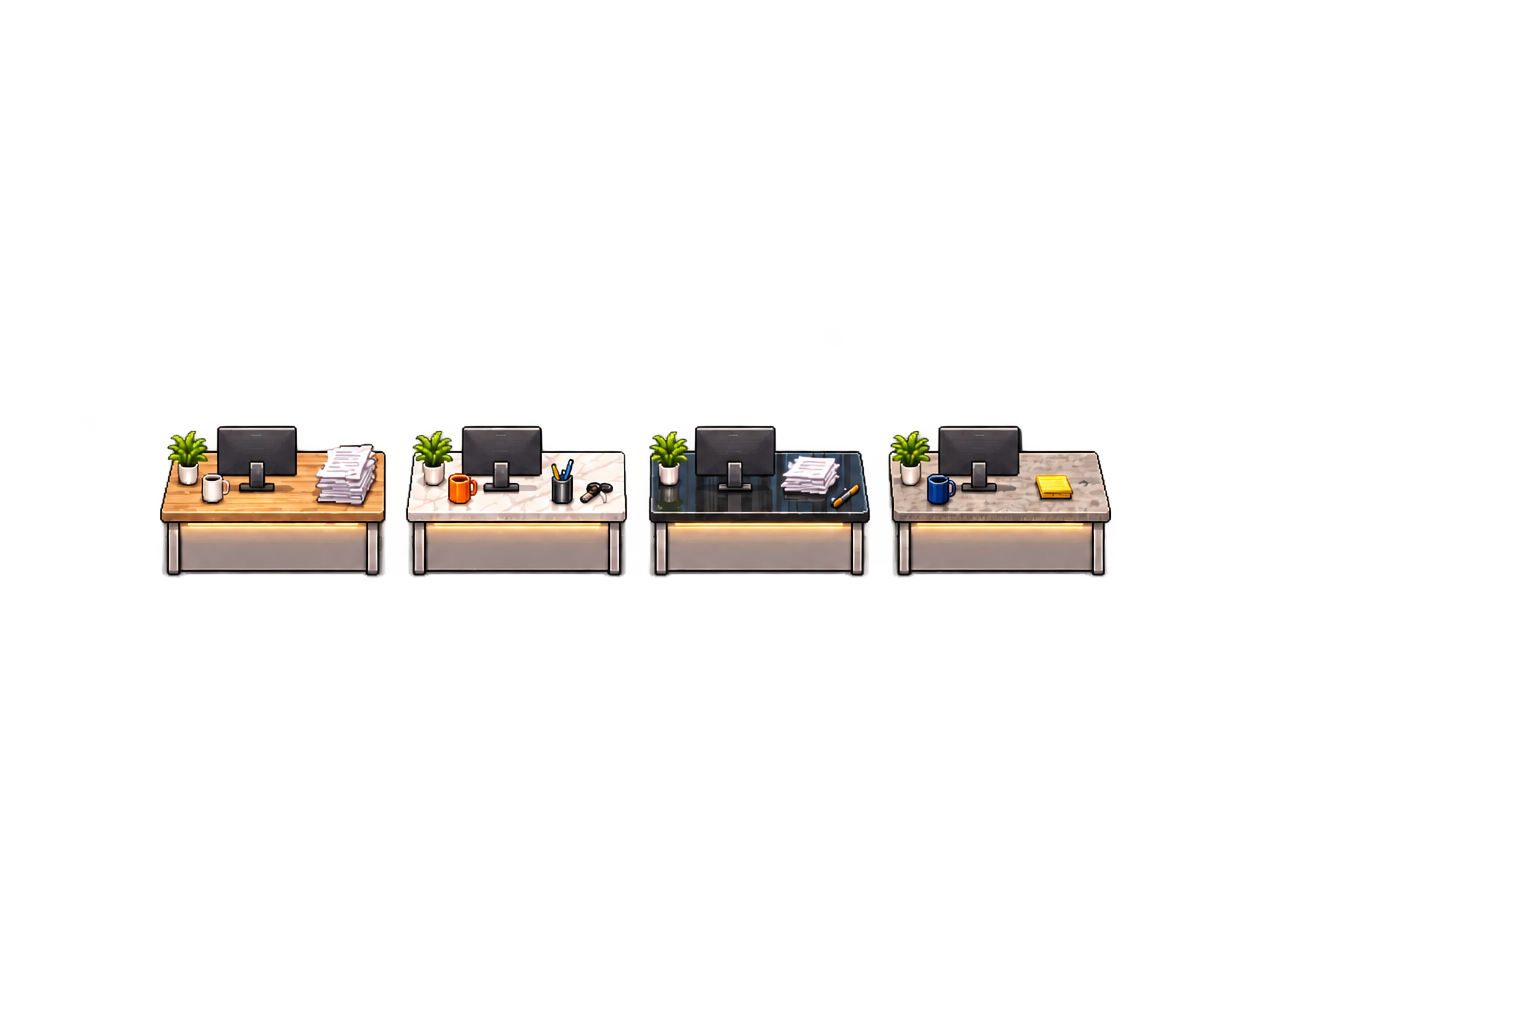
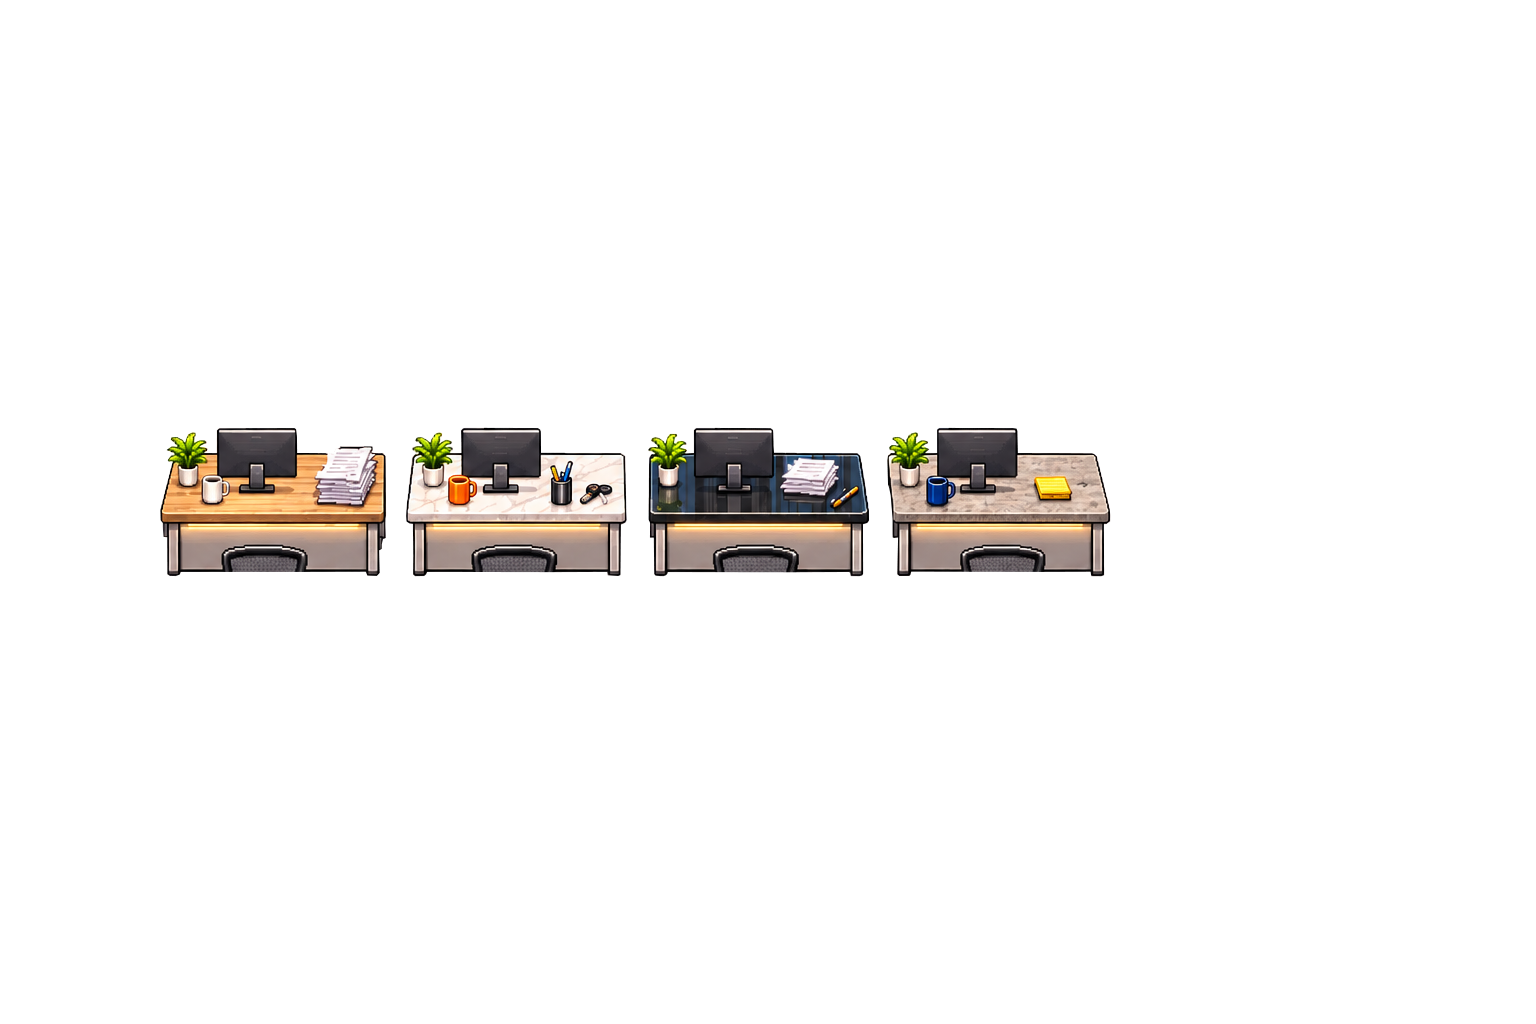
Office: re-cut VA desk cutouts; 8 AM-6 PM day, Kevin until 10 PM
- fg-desks-row1/row2 are re-cut from the background, so the strip of chair
  above each VA's monitor is gone; office web assets rebuilt.
- The office day now runs to 5:45 PM and people leave between 6:00 and
  6:10 PM ET (was 5:00). Kevin stays at his desk into the evening and leaves
  at 10:00 PM (LATE_LEAVE in roster.ts).

Changed region(s): [[0.0938, 0.4062, 0.7188, 0.5625]]

diff --git a/tests/office.schedule.test.ts b/tests/office.schedule.test.ts
@@ -1,6 +1,6 @@
 import { describe, it, expect } from "vitest";
 import { DateTime } from "luxon";
-import { planDay, periodFor, type DayPlan } from "@/lib/office/schedule";
+import { planDay, periodFor, DAY_END, type DayPlan } from "@/lib/office/schedule";
 import { OFFICE_ROSTER, EXEC_LUNCH_SEAT } from "@/lib/office/roster";
 
 const TEAM = OFFICE_ROSTER.map(({ slug, desk }) => ({ slug, desk }));
@@ -46,12 +46,24 @@ describe("planDay", () => {
     }
   });
 
-  it("everyone is gone by 5:15", () => {
-    for (const segs of Object.values(planDay(MON, TEAM))) {
+  it("works until 6 PM: leaves between 6:00 and 6:10, gone by 6:15", () => {
+    for (const [slug, segs] of Object.entries(planDay(MON, TEAM))) {
+      if (slug === "kevin-spann") continue;
       const last = segs[segs.length - 1];
       expect(last.activity).toBe("leave");
       expect(last.spot).toBe("EXIT");
-      expect(last.end).toBeLessThanOrEqual(1035);
+      expect(last.start).toBeGreaterThanOrEqual(1080);
+      expect(last.start).toBeLessThanOrEqual(1090);
+      expect(last.end).toBeLessThanOrEqual(1095);
+      expect(segs.find((s) => s.start <= 1070 && 1070 < s.end)).toBeDefined(); // still in at 5:50 PM
+    }
+  });
+
+  it("Kevin stays at his desk in the evening until 10 PM", () => {
+    for (const date of weekdays(MON, 5)) {
+      const segs = planDay(date, TEAM)["kevin-spann"];
+      expect(segs.find((s) => s.start <= 1290 && 1290 < s.end)).toMatchObject({ activity: "work", spot: "D1" });
+      expect(segs[segs.length - 1]).toMatchObject({ activity: "leave", start: 1320, spot: "EXIT" });
     }
   });
 
@@ -78,7 +90,7 @@ describe("planDay", () => {
     for (const people of [TEAM, crowd])
       for (const date of weekdays(MON, 20)) {
         const plan = planDay(date, people);
-        for (let minute = 495; minute < 1005; minute += 15)
+        for (let minute = 495; minute < DAY_END; minute += 15)
           for (const [spot, who] of occupied(plan, minute)) expect(who, `${date} ${minute} ${spot}`).toHaveLength(1);
       }
   });
@@ -100,7 +112,7 @@ describe("planDay", () => {
   it("talk pairs only form between two people in the same slot", () => {
     for (const date of weekdays(MON, 20)) {
       const plan = planDay(date, TEAM);
-      for (let minute = 495; minute < 1005; minute += 15) {
+      for (let minute = 495; minute < DAY_END; minute += 15) {
         const occ = occupied(plan, minute);
         for (const [a, b] of [["G1", "G2"], ["G3", "G4"]]) expect(occ.has(a)).toBe(occ.has(b));
       }

diff --git a/src/lib/office/schedule.ts b/src/lib/office/schedule.ts
@@ -3,7 +3,7 @@
 // Times are minutes after ET midnight.
 import { DateTime } from "luxon";
 import { ET_ZONE } from "@/lib/time";
-import { EXEC_LUNCH_SEAT } from "@/lib/office/roster";
+import { EXEC_LUNCH_SEAT, LATE_LEAVE } from "@/lib/office/roster";
 
 export type Activity =
   | "arrive" | "work" | "coffee" | "lunch" | "talk" | "laugh" | "armchair" | "workout" | "cr" | "leave";
@@ -14,7 +14,7 @@ export type Period = "morning" | "afternoon" | "evening";
 
 export const SLOT = 15;
 export const DAY_START = 495; // 8:15 AM
-export const SLOTS = 34; // through 4:45 PM
+export const SLOTS = 38; // through 5:45 PM; everyone leaves at 6:00 PM
 export const DAY_END = DAY_START + SLOT * SLOTS;
 
 const LUNCH_FIRST_SLOT = 13; // 11:30 AM
@@ -57,7 +57,7 @@ type Draw = { arrive: number; leave: number; lunchStart: number; lunchLen: numbe
 function draw(etDate: string, slug: string): Draw {
   const r = mulberry32(fnv1a(`${etDate}|${slug}`));
   const arrive = 470 + Math.floor(r() * 21);
-  const leave = 1020 + Math.floor(r() * 11);
+  const leave = LATE_LEAVE[slug] ?? 1080 + Math.floor(r() * 11);
   const lunchLen = 3 + (r() < 0.5 ? 1 : 0);
   const lunchStart = LUNCH_FIRST_SLOT + Math.floor(r() * (LUNCH_LAST_END - lunchLen - LUNCH_FIRST_SLOT + 1));
   const free = Array.from({ length: SLOTS }, (_, k) => k).filter((k) => k < lunchStart || k >= lunchStart + lunchLen);

diff --git a/src/lib/office/roster.ts b/src/lib/office/roster.ts
@@ -28,6 +28,11 @@ export const EXEC_LUNCH_SEAT: Readonly<Record<string, string>> = {
   "marc-fey": "T3",
 };
 
+/** People who stay past 6 PM, by slug: minutes after ET midnight they walk out. */
+export const LATE_LEAVE: Readonly<Record<string, number>> = {
+  "kevin-spann": 22 * 60, // Kevin works into the evening, until 10 PM
+};
+
 /** Who shows today, by slug: Marc always; everyone else needs an active account and no PTO today. */
 export function visibleMembers(activeSlugs: ReadonlySet<string>, ptoSlugs: ReadonlySet<string>): OfficePersonDTO[] {
   return OFFICE_ROSTER.filter((m) => !m.account || (activeSlugs.has(m.slug) && !ptoSlugs.has(m.slug))).map(

diff --git a/docs/superpowers/specs/2026-11-04-pixel-office-design.md b/docs/superpowers/specs/2026-11-04-pixel-office-design.md
@@ -4,7 +4,7 @@ Status: built 2026-11-09 (not committed). Plan: `docs/superpowers/plans/2026-11-
 
 ## What it is
 
-An illustrated, animated office scene showing the team at work. It is something to watch, not a game. The only interaction is clicking a person, which makes them wave. Mon–Fri, people walk in through the exit door around 8:00 AM ET and leave around 5:00 PM ET. During the day each person works at their desk and now and then gets coffee, eats lunch, sits in the lounge, chats, laughs, works out, or visits the CR (restroom). The background follows the ET clock: sunrise in the morning, blue sky in the afternoon, night skyline in the evening, when the office is always empty.
+An illustrated, animated office scene showing the team at work. It is something to watch, not a game. The only interaction is clicking a person, which makes them wave. Mon–Fri, people walk in through the exit door around 8:00 AM ET and leave around 6:00 PM ET (Kevin stays at his desk until 10:00 PM). During the day each person works at their desk and now and then gets coffee, eats lunch, sits in the lounge, chats, laughs, works out, or visits the CR (restroom). The background follows the ET clock: sunrise in the morning, blue sky in the afternoon, night skyline in the evening, when the office is always empty.
 
 ### Where it shows
 
@@ -34,7 +34,8 @@ The art is 1536×1024 (3:2). It is not the 2040×1360 first asked for, and every
 | File | What it is | Status |
 |---|---|---|
 | `bg-morning.png`, `bg-afternoon.png`, `bg-evening.png` | Full scene, one per time of day | ✅ |
-| `fg-executive.png`, `fg-desks-row1.png`, `fg-desks-row2.png`, `fg-plants.png` | Cutouts, used as masks only (see Rendering) | ⚠ AI-redrawn, so their edges are a few px off the bg (29–60% of pixels differ). The monitor tops reach ~4 px too high and paint a strip of chair over each sitter's chest. Re-cut from a copy of the bg, as was done for `fg-lunch.png` (0 px off). An automatic rim trim was tried and rejected: it cut away too much. |
+| `fg-desks-row1.png`, `fg-desks-row2.png` | Cutouts, used as masks only (see Rendering) | ✅ re-cut 2026-11-09, match the bg exactly |
+| `fg-executive.png`, `fg-plants.png` | Cutouts, used as masks only | ⚠ AI-redrawn, so their edges are a few px off the bg (29–60% of pixels differ); the exec monitor tops paint a thin strip of chair over each sitter. Re-cut from a copy of the bg, as was done for the desk rows. An automatic rim trim was tried and rejected: it cut away too much. |
 | `fg-lunch.png` | The table only, without the chairs. Mask only. | ✅ re-cut 2026-11-09, matches the bg exactly |
 | `fg-lounge.png` | Armchairs and tables (not the rugs). Mask only. | ✅ re-cut 2026-11-09, aligned |
 | `fg-lunch-chairs.png` | All 14 lunch chairs, cut from the bg. Mask only; split into one chair per seat (see Rendering). | ✅ 2026-11-09 |
@@ -130,14 +131,14 @@ There are no new routes or actions.
 
 **Day plan per person:**
 1. **Arrive:** between 7:50 and 8:10 AM ET. They walk from EXIT to their desk.
-2. **The day** is split into 15-minute slots from 8:15 AM to 4:45 PM. Each slot is one activity:
+2. **The day** is split into 15-minute slots from 8:15 AM to 5:45 PM. Each slot is one activity:
    - `work` (desk): most slots.
    - `coffee`: about 2 a day.
    - `lunch`: one 45–60 minute block between 11:30 AM and 1:30 PM.
    - `lounge`: armchair, or a talk/laugh pair.
    - `workout`: about 1 a day, not for everyone.
    - `cr`: walk into the CR door, hidden for a few minutes, walk back.
-3. **Leave:** between 5:00 and 5:10 PM ET. They walk from their desk to EXIT and disappear.
+3. **Leave:** between 6:00 and 6:10 PM ET. They walk from their desk to EXIT and disappear. Kevin (`LATE_LEAVE` in `roster.ts`) works at his desk into the evening and leaves at 10:00 PM.
 
 **Shared spots** (lunch chairs, armchairs, talk pairs, coffee, workout):
 - Spots are handed out per slot in roster order. Each person takes the first free spot for their activity; if none is free, they work instead.
@@ -220,7 +221,7 @@ Use `ET_ZONE` and Luxon from `src/lib/time.ts`. Never hardcode an offset.
 - `tests/office.schedule.test.ts`:
   - The same inputs give the same output.
   - Weekends are empty.
-  - Everyone is at their desk by 8:15 AM and gone by 5:15 PM.
+  - Everyone is at their desk by 8:15 AM and gone by 6:15 PM; Kevin is at his desk at 9:30 PM and leaves at 10:00 PM.
   - Nobody shares a spot in any slot.
   - Lunch falls inside 11:30 AM–1:30 PM.
   - A hidden person is never scheduled into a pair.
@@ -233,7 +234,7 @@ Use `ET_ZONE` and Luxon from `src/lib/time.ts`. Never hardcode an offset.
 ## Art still open
 
 Nothing blocks the build. Still open, none of it blocking:
-1. Re-cut `fg-executive.png`, `fg-desks-row1.png`, `fg-desks-row2.png` and `fg-plants.png` from a copy of the bg.
+1. Re-cut `fg-executive.png` and `fg-plants.png` from a copy of the bg.
 2. A render check against the morning and evening backgrounds.
 
 ## Out of scope
